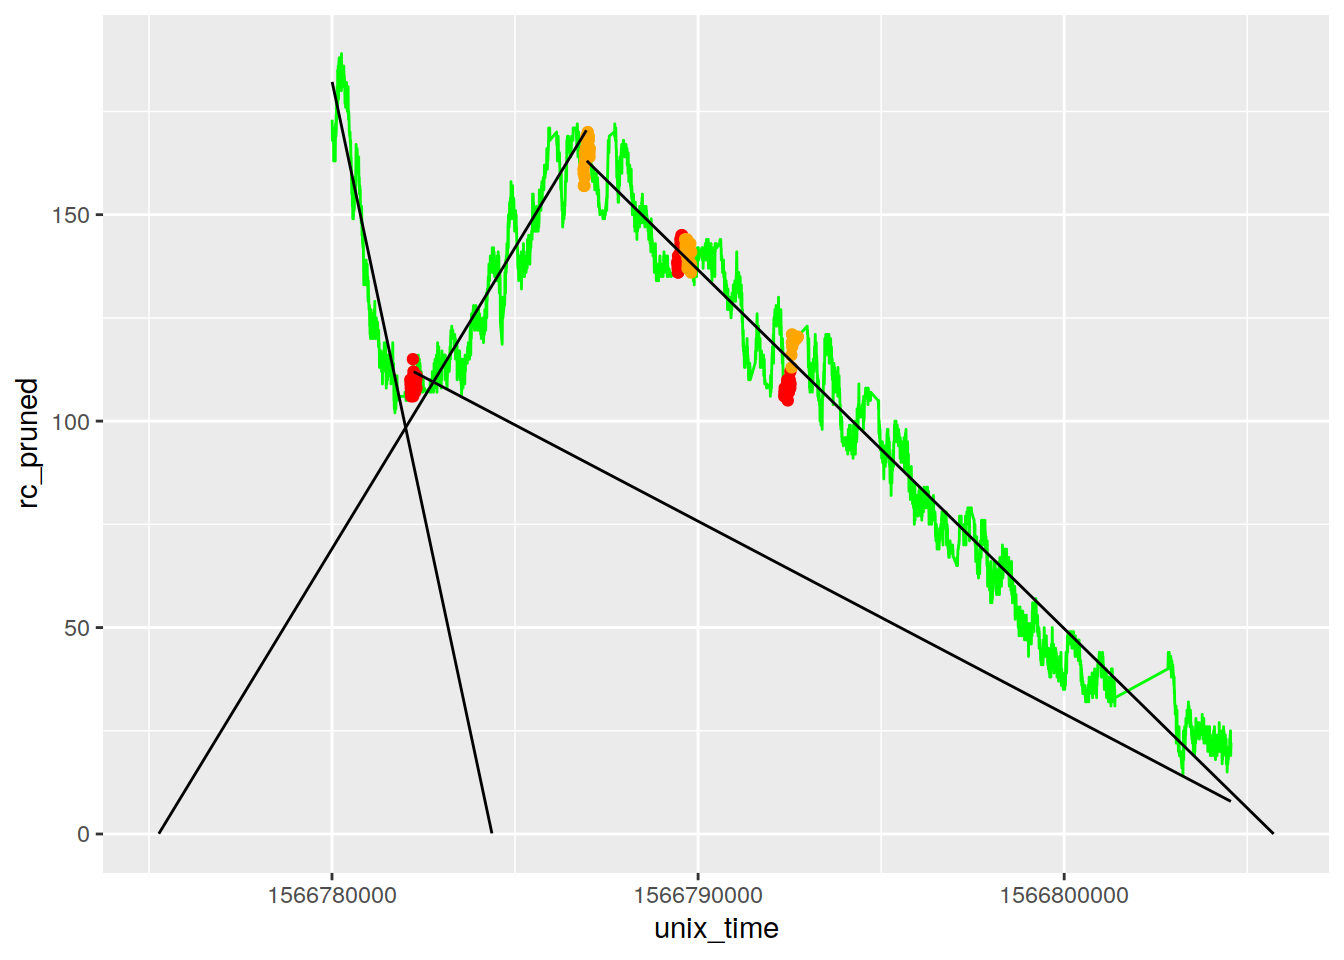
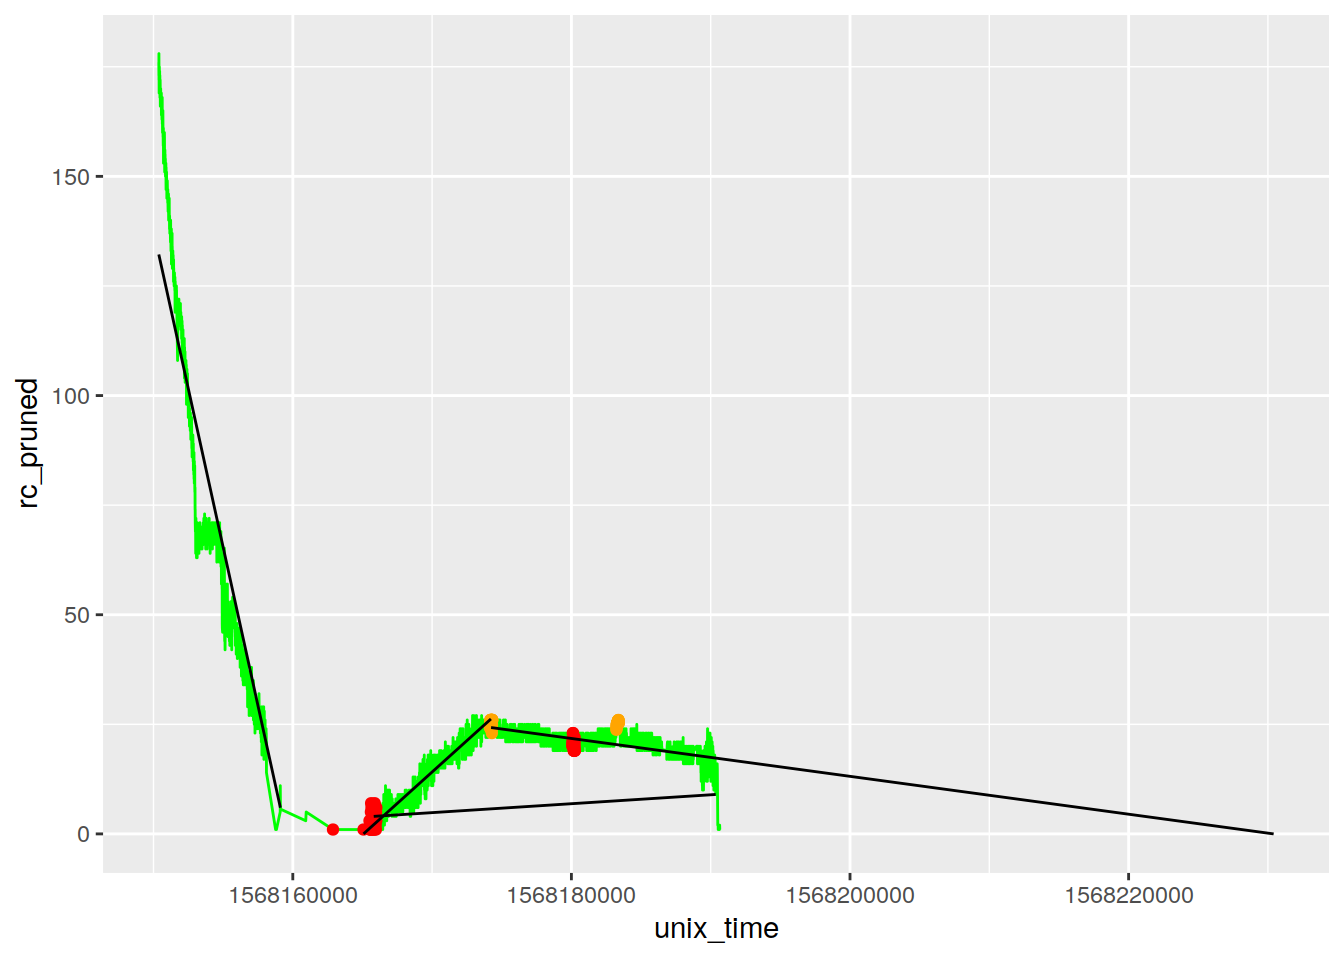
final

diff --git a/docs/process_one_sheet.html b/docs/process_one_sheet.html
@@ -404,7 +404,7 @@ div.section {
 <div class="tab-content">
 <div id="summary" class="tab-pane fade in active">
 <p>
-<strong>Last updated:</strong> 2020-04-06
+<strong>Last updated:</strong> 2020-04-07
 </p>
 <p>
 <strong>Checks:</strong> <span class="glyphicon glyphicon-ok text-success" aria-hidden="true"></span> 6 <span class="glyphicon glyphicon-exclamation-sign text-danger" aria-hidden="true"></span> 1
@@ -495,24 +495,21 @@ This reproducible <a href="http://rmarkdown.rstudio.com">R Markdown</a> analysis
 <div class="panel panel-default">
 <div class="panel-heading">
 <p class="panel-title">
-<a data-toggle="collapse" data-parent="#workflowr-checks" href="#strongRepositoryversionstrongahrefhttpsgithubcomdewollerkellyalcoholanalysistree14b580528f1d464e86518a3e5c0ffdecfa9a87d2targetblank14b5805a"> <span class="glyphicon glyphicon-ok text-success" aria-hidden="true"></span> <strong>Repository version:</strong> <a href="https://github.com/dewoller/kelly_alcohol_analysis/tree/14b580528f1d464e86518a3e5c0ffdecfa9a87d2" target="_blank">14b5805</a> </a>
+<a data-toggle="collapse" data-parent="#workflowr-checks" href="#strongRepositoryversionstrongahrefhttpsgithubcomdewollerkellyalcoholanalysistreef1875bbf655b170a8614153ce1fa826bb94bbddftargetblankf1875bba"> <span class="glyphicon glyphicon-ok text-success" aria-hidden="true"></span> <strong>Repository version:</strong> <a href="https://github.com/dewoller/kelly_alcohol_analysis/tree/f1875bbf655b170a8614153ce1fa826bb94bbddf" target="_blank">f1875bb</a> </a>
 </p>
 </div>
[2 lines of base64/hex data omitted]
 <div class="panel-body">
 <p>
 Great! You are using Git for version control. Tracking code development and connecting the code version to the results is critical for reproducibility. The version displayed above was the version of the Git repository at the time these results were generated. <br><br> Note that you need to be careful to ensure that all relevant files for the analysis have been committed to Git prior to generating the results (you can use <code>wflow_publish</code> or <code>wflow_git_commit</code>). workflowr only checks the R Markdown file, but you know if there are other scripts or data files that it depends on. Below is the status of the Git repository when the results were generated:
 </p>
 <pre><code>
 Ignored files:
-    Ignored:    analysis/figure/
     Ignored:    data/
     Ignored:    explore/
 
 Unstaged changes:
-    Modified:   analysis/process_all_sheets.Rmd
     Modified:   analysis/process_one_sheet.Rmd
-    Modified:   docs/results_summary.csv
 
 </code></pre>
 <p>
@@ -551,6 +548,40 @@ Message
 </tr>
 </thead>
 <tbody>
+<tr>
+<td>
+Rmd
+</td>
+<td>
+<a href="https://github.com/dewoller/kelly_alcohol_analysis/blob/f1875bbf655b170a8614153ce1fa826bb94bbddf/analysis/process_one_sheet.Rmd" target="_blank">f1875bb</a>
+</td>
+<td>
+Dennis Wollersheim
+</td>
+<td>
+2020-04-05
+</td>
+<td>
+new
+</td>
+</tr>
+<tr>
+<td>
+html
+</td>
+<td>
+<a href="https://rawcdn.githack.com/dewoller/kelly_alcohol_analysis/f1875bbf655b170a8614153ce1fa826bb94bbddf/docs/process_one_sheet.html" target="_blank">f1875bb</a>
+</td>
+<td>
+Dennis Wollersheim
+</td>
+<td>
+2020-04-05
+</td>
+<td>
+new
+</td>
+</tr>
 <tr>
 <td>
 Rmd
@@ -728,8 +759,8 @@ wflow_publish(“analysis/process_one_sheet.Rmd”)
 </div>
 </div>
 </div>
-<div id="file-test-sheet-p0051_aug_26_s1_right-sheet_n-1" class="section level1">
-<h1>FILE: test SHEET: P0051_Aug_26_S1_right SHEET_N: 1</h1>
+<div id="file-test-sheet-sheet_n-1" class="section level1">
+<h1>FILE: test SHEET: SHEET_N: 1</h1>
 <div id="replace-outliers-with-mean-of-neigbouring-points" class="section level2">
 <h2>replace outliers with mean of neigbouring points</h2>
 <pre class="r"><code>smoothing_window_width = 500
@@ -776,6 +807,17 @@ Date
 </tr>
 </thead>
 <tbody>
+<tr>
+<td>
+<a href="https://github.com/dewoller/kelly_alcohol_analysis/blob/f1875bbf655b170a8614153ce1fa826bb94bbddf/docs/figure/process_one_sheet.Rmd/unnamed-chunk-2-1.png" target="_blank">f1875bb</a>
+</td>
+<td>
+Dennis Wollersheim
+</td>
+<td>
+2020-04-05
+</td>
+</tr>
 <tr>
 <td>
 <a href="https://github.com/dewoller/kelly_alcohol_analysis/blob/ac9c1db5995c65d4c70b8b1a75eff276767ea60a/docs/figure/process_one_sheet.Rmd/unnamed-chunk-2-1.png" target="_blank">ac9c1db</a>
@@ -833,6 +875,17 @@ Date
 </tr>
 </thead>
 <tbody>
+<tr>
+<td>
+<a href="https://github.com/dewoller/kelly_alcohol_analysis/blob/f1875bbf655b170a8614153ce1fa826bb94bbddf/docs/figure/process_one_sheet.Rmd/unnamed-chunk-3-1.png" target="_blank">f1875bb</a>
+</td>
+<td>
+Dennis Wollersheim
+</td>
+<td>
+2020-04-05
+</td>
+</tr>
 <tr>
 <td>
 <a href="https://github.com/dewoller/kelly_alcohol_analysis/blob/ac9c1db5995c65d4c70b8b1a75eff276767ea60a/docs/figure/process_one_sheet.Rmd/unnamed-chunk-3-1.png" target="_blank">ac9c1db</a>
@@ -902,6 +955,17 @@ Date
 </tr>
 </thead>
 <tbody>
+<tr>
+<td>
+<a href="https://github.com/dewoller/kelly_alcohol_analysis/blob/f1875bbf655b170a8614153ce1fa826bb94bbddf/docs/figure/process_one_sheet.Rmd/unnamed-chunk-4-1.png" target="_blank">f1875bb</a>
+</td>
+<td>
+Dennis Wollersheim
+</td>
+<td>
+2020-04-05
+</td>
+</tr>
 <tr>
 <td>
 <a href="https://github.com/dewoller/kelly_alcohol_analysis/blob/ac9c1db5995c65d4c70b8b1a75eff276767ea60a/docs/figure/process_one_sheet.Rmd/unnamed-chunk-4-1.png" target="_blank">ac9c1db</a>
@@ -1063,19 +1127,19 @@ df_in_smoothed %&gt;%
 #df_steps %&gt;% View
 df_steps %&gt;% summary()</code></pre>
 <pre><code>   unix_time             row_n       predicted_parabola_base predicted_min    
- Min.   :1.567e+09   Min.   :-7999   Min.   :-204.66         Min.   :-2742.6  
- 1st Qu.:1.567e+09   1st Qu.:-2922   1st Qu.: -69.78         1st Qu.:-1536.3  
- Median :1.567e+09   Median : 2156   Median :  69.08         Median : -294.4  
- Mean   :1.567e+09   Mean   : 2156   Mean   :  65.83         Mean   : -323.5  
- 3rd Qu.:1.567e+09   3rd Qu.: 7233   3rd Qu.: 200.01         3rd Qu.:  876.6  
- Max.   :1.567e+09   Max.   :12310   Max.   : 334.88         Max.   : 2082.9  
- predicted_max    predicted_end   
- Min.   :-595.8   Min.   :-385.9  
- 1st Qu.:-173.8   1st Qu.:-134.6  
- Median : 235.8   Median : 124.2  
- Mean   : 246.0   Mean   : 118.1  
- 3rd Qu.: 670.3   3rd Qu.: 368.2  
- Max.   :1092.2   Max.   : 619.5  </code></pre>
+ Min.   :1.568e+09   Min.   :-7999   Min.   :-10.207         Min.   :-1236.4  
+ 1st Qu.:1.568e+09   1st Qu.:-2518   1st Qu.: -2.623         1st Qu.: -697.7  
+ Median :1.568e+09   Median : 2964   Median :  5.703         Median : -211.8  
+ Mean   :1.568e+09   Mean   : 2964   Mean   :  5.061         Mean   : -166.1  
+ 3rd Qu.:1.568e+09   3rd Qu.: 8445   3rd Qu.: 12.545         3rd Qu.:  379.7  
+ Max.   :1.568e+09   Max.   :13926   Max.   : 20.128         Max.   :  918.4  
+ predicted_max     predicted_end   
+ Min.   :-197.90   Min.   :-6.314  
+ 1st Qu.: -91.15   1st Qu.: 9.777  
+ Median :  26.06   Median :24.294  
+ Mean   :  17.02   Mean   :25.658  
+ 3rd Qu.: 122.37   3rd Qu.:41.962  
+ Max.   : 229.13   Max.   :58.053  </code></pre>
 </div>
 <div id="adjust-where-parabola_base-actually-stops-minimum-of-end-or-where-it-intersects-actual-raw_current" class="section level2">
 <h2>Adjust where parabola_base actually stops (minimum of end, or where it intersects actual raw_current)</h2>
@@ -1093,7 +1157,7 @@ df_in_smoothed %&gt;%
   filter( (row_n &gt; max_location &amp; predicted_parabola_base &gt;= rc_pruned) |
          row_n == max( row_n)) %&gt;%
   filter( row_n == min( row_n )) %&gt;%
-  pluck( &#39;row_n&#39; ) %&gt;% 
+  pluck( &#39;row_n&#39; ) %&gt;%
   { . } -&gt; predicted_parabola_base_end</code></pre>
 </div>
 <div id="predict-the-area-under-the-three-predicted-base-lines-from-left-to-right-min-max-and-end" class="section level2">
@@ -1170,7 +1234,7 @@ df_in_smoothed[ min_2nd_location, &#39;unix_time&#39;] %&gt;%
 
 area_uc_parabola_base = -1
 area_uc_parabola = -1
-try( {
+# try( {
 
   # the upper bit above the parabola base, down to x axis
   df_in_smoothed %&gt;%
@@ -1188,14 +1252,17 @@ try( {
       pluck(&#39;area&#39;) %&gt;%
       { . } -&gt; area_uc_parabola_base
 
-  }, silent=TRUE)
+  # }, silent=TRUE)
 
 df_auc = tibble(
                 raw = area_uc_full_raw,
                 smoothed = area_uc_full_smoothed,
                 loess = area_uc_full_loess,
                 smoothed_and_cleaned = area_uc_full_cleaned
-                  )
+                ) %&gt;%
+mutate_all( function(x) { round( x/1000, 0)})
+
+
 
 
 
@@ -1206,7 +1273,8 @@ df_rv = tibble(
                full_auc = area_uc_full_raw,
                upper_auc = area_uc_upper - rectangle_area,
                parabola_auc = area_uc_parabola- area_uc_parabola_base
-               )</code></pre>
+               ) %&gt;%
+mutate_all( function(x) { round( x/1000, 0)})</code></pre>
 </div>
 <div id="what-points-were-predicted-on" class="section level2">
 <h2>What points were predicted on</h2>
@@ -1219,26 +1287,64 @@ df_rv = tibble(
   #  geom_line( aes( unix_time, mean_left ), color=&#39;red&#39;) +
   geom_line( aes( unix_time, predicted_min), data=(df_steps %&gt;% filter( predicted_min &gt; 0 &amp; row_n &gt; 0  ) )) +
   geom_line( aes( unix_time, predicted_max), data=(df_steps %&gt;% filter( predicted_max &gt; 0 &amp; row_n &lt; max_location ) )) +
-  geom_line( aes( unix_time, predicted_end), data=(df_steps %&gt;% filter( predicted_end &gt; 0 &amp; row_n &gt; max_location ) ))  %&gt;% 
+  geom_line( aes( unix_time, predicted_end), data=(df_steps %&gt;% filter( predicted_end &gt; 0 &amp; row_n &gt; max_location ) ))  %&gt;%
   { . } -&gt; gg_out
 
-try ({
+# try ({
   gg_out = gg_out +
   geom_line( aes( unix_time, predicted_parabola_base), data=(df_steps %&gt;% filter( row_n &gt; min_location &amp; row_n &lt; predicted_parabola_base_end ) ))
-}, silent=TRUE)
+# }, silent=TRUE)
 
 print(gg_out)</code></pre>
 <p><img src="figure/process_one_sheet.Rmd/unnamed-chunk-13-1.png" width="672" style="display: block; margin: auto;" /></p>
+<p>
+<button type="button" class="btn btn-default btn-xs btn-workflowr btn-workflowr-fig" data-toggle="collapse" data-target="#fig-unnamed-chunk-13-1">
+Past versions of unnamed-chunk-13-1.png
+</button>
+</p>
+<div id="fig-unnamed-chunk-13-1" class="collapse">
+<div class="table-responsive">
+<table class="table table-condensed table-hover">
+<thead>
+<tr>
+<th>
+Version
+</th>
+<th>
+Author
+</th>
+<th>
+Date
+</th>
+</tr>
+</thead>
+<tbody>
+<tr>
+<td>
+<a href="https://github.com/dewoller/kelly_alcohol_analysis/blob/f1875bbf655b170a8614153ce1fa826bb94bbddf/docs/figure/process_one_sheet.Rmd/unnamed-chunk-13-1.png" target="_blank">f1875bb</a>
+</td>
+<td>
+Dennis Wollersheim
+</td>
+<td>
+2020-04-05
+</td>
+</tr>
+</tbody>
+</table>
+</div>
+</div>
 </div>
 <div id="predicted-areas-for-the-different-parts-of-the-graph" class="section level2">
 <h2>Predicted Areas for the different parts of the graph</h2>
 <p>There are 5 calculated areas. Three are predicted triangular chunks (max, min, and end) and two are measured AUC’s: full and upper</p>
 <ul>
-<li>max - line from max point, through first minimum. Triangel area is from first minimum to xaxis</li>
-<li>min - line from start through first minimum. Triangle area is from first min to xaxis</li>
-<li>end - line from max through end. Triangle area is from end to xaxis.</li>
-<li>full - AUC from first min to end</li>
-<li>upper - AUC from first min, to the place where that min appears after the maximum, subtracting the rectangle under that chunk</li>
+<li>max_t - line from parabola max point, through first minimum. Triangel area is from first minimum to xaxis</li>
+<li>min_t - line from start through first minimum. Triangle area is from first min to xaxis</li>
+<li>end_t - line from parabola max through end. Triangle area is from end to xaxis.</li>
+<li>full_auc - AUC from first min to end</li>
+<li>upper_auc - AUC from first min BAC, to the first timestamp where the min BAC appears after the maximum, subtracting the rectangle under that chunk</li>
+<li>parabola_auc - AUC of the parabola above the diagonal line that runs from first min to the first of either the end, or where that line intersects the BAC measure</li>
 </ul>
 <p>The numbers you want are:</p>
 <ul>
@@ -1247,6 +1353,7 @@ print(gg_out)</code></pre>
 <li>full+ max (+end?)</li>
 <li>full + end</li>
 <li>upper</li>
+<li>upper_auc</li>
 </ul>
 <pre class="r"><code>df_rv %&gt;%
   kable(format.args = list(big.mark = &quot;,&quot;) ) %&gt;%
@@ -1277,22 +1384,22 @@ parabola_auc
 <tbody>
 <tr>
 <td style="text-align:right;">
-353,409.7
+1
 </td>
 <td style="text-align:right;">
-96,008.84
+0
 </td>
 <td style="text-align:right;">
-5,891.318
+341
 </td>
 <td style="text-align:right;">
-2,179,750
+466
 </td>
 <td style="text-align:right;">
-323,108
+436
 </td>
 <td style="text-align:right;">
-836,287.5
+298
 </td>
 </tr>
 </tbody>
@@ -1324,16 +1431,16 @@ smoothed_and_cleaned
 <tbody>
 <tr>
 <td style="text-align:right;">
-2,179,750
+466
 </td>
 <td style="text-align:right;">
-2,174,745
+460
 </td>
 <td style="text-align:right;">
-2,166,892
+460
 </td>
 <td style="text-align:right;">
-2,174,745
+462
 </td>
 </tr>
 </tbody>
@@ -1380,7 +1487,7 @@ loaded via a namespace (and not attached):
  [1] tseries_0.10-47      httr_1.4.1           viridisLite_0.3.0   
  [4] jsonlite_1.6.1       modelr_0.1.6         assertthat_0.2.1    
  [7] TTR_0.23-6           highr_0.8            cellranger_1.1.0    
-[10] yaml_2.2.1           pillar_1.4.3         backports_1.1.5     
+[10] yaml_2.2.1           pillar_1.4.3         backports_1.1.6     
 [13] lattice_0.20-41      quadprog_1.5-8       digest_0.6.25       
 [16] snakecase_0.11.0     rvest_0.3.5          colorspace_1.4-1    
 [19] htmltools_0.4.0      timeDate_3043.102    pkgconfig_2.0.3     
